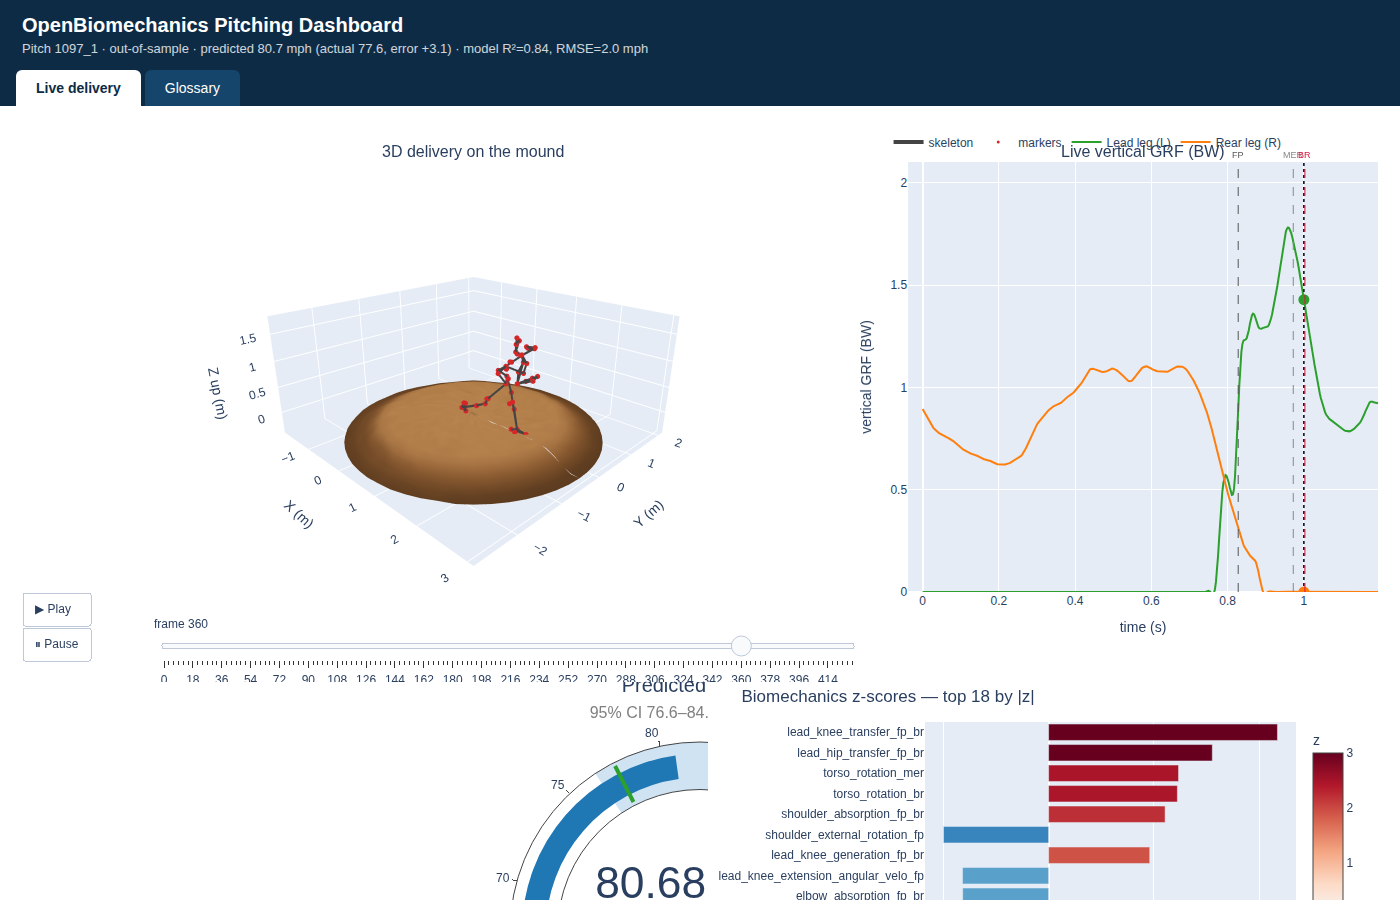
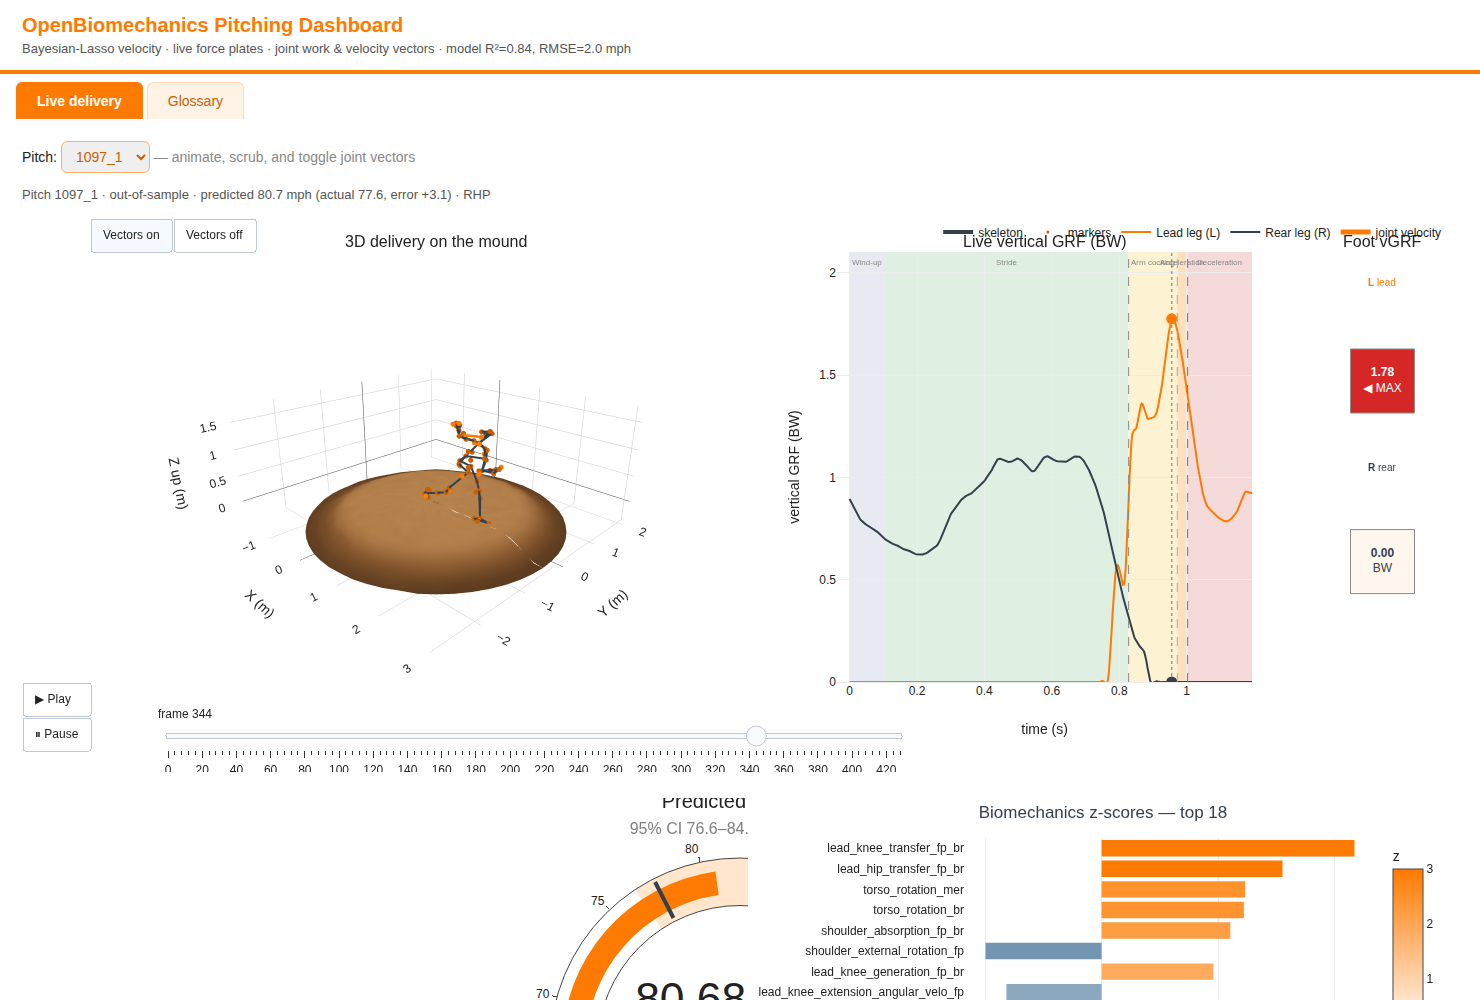
Add shaded delivery phases and color-changing L/R foot squares
- force_plate.py: delivery_phases() splits the delivery into wind-up, stride,
  arm cocking, acceleration, and deceleration spans from the event times
- GRF plots (matplotlib + HTML) now shade those phases behind the traces
- Replace the L/R bar gauge with two foot-vGRF squares that display each foot's
  value every frame and flash red ("MAX") at that foot's peak force
- HTML: foot squares added as a third subplot, animated per frame; phase labels
- README updated for phases, foot squares, theme, joint work, vectors, picker

Claude-Session: https://claude.ai/code/session_016ySqdfgHCsYqkwYTK8nUZG

diff --git a/dashboard.py b/dashboard.py
@@ -120,6 +120,24 @@ def _load_force(dataset, session_pitch, frame_times):
 
 
 _LEAD_C, _REAR_C = theme.ORANGE, theme.SLATE
+_HIGHLIGHT = "#d62728"  # colour a foot square flashes to at its peak force
+
+
+def _square_cmap():
+    from matplotlib.colors import LinearSegmentedColormap
+    return LinearSegmentedColormap.from_list(
+        "foot", [theme.PANEL, theme.ORANGE_LIGHT, theme.ORANGE])
+
+
+def _set_square(sq, txt, val, peak, unit):
+    """Colour a foot square by its current force; flash red at the max."""
+    frac = float(np.clip(val / peak, 0, 1)) if peak > 0 else 0.0
+    at_max = peak > 0 and val >= 0.99 * peak
+    sq.set_facecolor(_HIGHLIGHT if at_max else _square_cmap()(frac))
+    sq.set_edgecolor(_HIGHLIGHT if at_max else "0.5")
+    sq.set_linewidth(2.6 if at_max else 1.2)
+    txt.set_text(f"{val:.2f}\n{'◀ MAX' if at_max else unit}")
+    txt.set_color("white" if (frac > 0.6 or at_max) else theme.TEXT)
 
 
 def _draw_force_panel(ax_force, ax_bars, frame_times, fp, lead_leg, rear_leg):
@@ -142,6 +160,9 @@ def _draw_force_panel(ax_force, ax_bars, frame_times, fp, lead_leg, rear_leg):
     rear = fp["rear_vertical" + suffix]
     t = frame_times
 
+    import force_plate as _fp
+    from matplotlib.patches import Rectangle
+
     ax_force.plot(t, lead, color=_LEAD_C, lw=1.6, label=f"Lead leg ({lead_leg})")
     ax_force.plot(t, rear, color=_REAR_C, lw=1.6, label=f"Rear leg ({rear_leg})")
     ymax = float(np.nanmax([np.nanmax(lead), np.nanmax(rear), 1.0])) * 1.18
@@ -152,18 +173,23 @@ def _draw_force_panel(ax_force, ax_bars, frame_times, fp, lead_leg, rear_leg):
     ax_force.set_title("Live ground reaction force", fontweight="bold", fontsize=10)
     ax_force.tick_params(labelsize=7)
 
-    ev_style = {"fp": ("FP", "0.35"), "mer": ("MER", "0.55"),
-                "br": ("BR", "crimson")}
-    for key, (lab, c) in ev_style.items():
+    # Shaded delivery phases behind the traces.
+    ev_times = {k: float(t[fr]) for k, fr in fp["event_frames"].items()
+                if fr < len(t)}
+    for ph in _fp.delivery_phases(ev_times, float(t[-1])):
+        ax_force.axvspan(ph["t0"], ph["t1"], color=ph["color"], alpha=0.85,
+                         zorder=0, lw=0)
+        ax_force.text((ph["t0"] + ph["t1"]) / 2, ymax * 0.97, ph["label"],
+                      ha="center", va="top", fontsize=5.5, color="0.4", zorder=1)
+    for key in ("fp", "mer", "br"):
         fr = fp["event_frames"].get(key)
         if fr is not None and fr < len(t):
-            ax_force.axvline(t[fr], color=c, ls="--", lw=1.0, alpha=0.7)
-            ax_force.text(t[fr], ymax * 0.99, lab, rotation=90, va="top",
-                          ha="right", fontsize=6, color=c)
-    ax_force.legend(loc="upper left", fontsize=7, framealpha=0.9)
+            ax_force.axvline(t[fr], color="0.5", ls="--", lw=0.8, alpha=0.6,
+                             zorder=1)
+    ax_force.legend(loc="lower left", fontsize=7, framealpha=0.9)
 
     # Animated trace artists
-    cursor = ax_force.axvline(t[0], color="k", lw=1.2)
+    cursor = ax_force.axvline(t[0], color="k", lw=1.2, zorder=4)
     lead_dot, = ax_force.plot([t[0]], [lead[0]], "o", color=_LEAD_C, ms=7,
                               zorder=5)
     rear_dot, = ax_force.plot([t[0]], [rear[0]], "o", color=_REAR_C, ms=7,
@@ -174,24 +200,34 @@ def _draw_force_panel(ax_force, ax_bars, frame_times, fp, lead_leg, rear_leg):
         bbox=dict(boxstyle="round", fc="white", ec="0.7", alpha=0.85),
     )
 
-    # L/R bar gauge
-    ax_bars.set_xlim(-0.6, 1.6)
-    ax_bars.set_ylim(0, ymax)
-    ax_bars.set_xticks([0, 1])
-    ax_bars.set_xticklabels([f"{lead_leg}\nlead", f"{rear_leg}\nrear"], fontsize=8)
-    ax_bars.set_yticks([])
-    ax_bars.set_title(f"vGRF\n({unit})", fontsize=8)
-    bar_lead = ax_bars.bar(0, 0.0, width=0.7, color=_LEAD_C)[0]
-    bar_rear = ax_bars.bar(1, 0.0, width=0.7, color=_REAR_C)[0]
-    bar_txt_l = ax_bars.text(0, 0, "", ha="center", va="bottom", fontsize=7)
-    bar_txt_r = ax_bars.text(1, 0, "", ha="center", va="bottom", fontsize=7)
+    # Two foot squares (lead/rear) that show the live value and flash at the max.
+    ax_bars.set_xlim(0, 1)
+    ax_bars.set_ylim(0, 1)
+    ax_bars.axis("off")
+    ax_bars.set_title(f"Foot vGRF\n({unit})", fontsize=8)
+    sq_lead = Rectangle((0.15, 0.55), 0.7, 0.34, facecolor=theme.PANEL,
+                        edgecolor="0.5", lw=1.2)
+    sq_rear = Rectangle((0.15, 0.09), 0.7, 0.34, facecolor=theme.PANEL,
+                        edgecolor="0.5", lw=1.2)
+    ax_bars.add_patch(sq_lead)
+    ax_bars.add_patch(sq_rear)
+    ax_bars.text(0.5, 0.93, f"{lead_leg} lead", ha="center", va="center",
+                 fontsize=7, color=_LEAD_C, fontweight="bold")
+    ax_bars.text(0.5, 0.47, f"{rear_leg} rear", ha="center", va="center",
+                 fontsize=7, color=_REAR_C, fontweight="bold")
+    val_lead = ax_bars.text(0.5, 0.72, "", ha="center", va="center",
+                            fontsize=10, fontweight="bold")
+    val_rear = ax_bars.text(0.5, 0.26, "", ha="center", va="center",
+                            fontsize=10, fontweight="bold")
 
     return {
         "lead": lead, "rear": rear, "t": t, "unit": unit,
         "lead_leg": lead_leg, "rear_leg": rear_leg,
         "cursor": cursor, "lead_dot": lead_dot, "rear_dot": rear_dot,
-        "live_txt": live_txt, "bar_lead": bar_lead, "bar_rear": bar_rear,
-        "bar_txt_l": bar_txt_l, "bar_txt_r": bar_txt_r,
+        "live_txt": live_txt,
+        "sq_lead": sq_lead, "sq_rear": sq_rear,
+        "val_lead": val_lead, "val_rear": val_rear,
+        "peak_lead": float(np.nanmax(lead)), "peak_rear": float(np.nanmax(rear)),
     }
 
 
@@ -208,14 +244,10 @@ def _update_force_panel(fa, frame_idx):
         f"{fa['lead_leg']} lead: {lv:5.2f} {fa['unit']}\n"
         f"{fa['rear_leg']} rear: {rv:5.2f} {fa['unit']}"
     )
-    fa["bar_lead"].set_height(lv)
-    fa["bar_rear"].set_height(rv)
-    fa["bar_txt_l"].set_position((0, lv))
-    fa["bar_txt_l"].set_text(f"{lv:.1f}")
-    fa["bar_txt_r"].set_position((1, rv))
-    fa["bar_txt_r"].set_text(f"{rv:.1f}")
+    _set_square(fa["sq_lead"], fa["val_lead"], lv, fa["peak_lead"], fa["unit"])
+    _set_square(fa["sq_rear"], fa["val_rear"], rv, fa["peak_rear"], fa["unit"])
     return [fa["cursor"], fa["lead_dot"], fa["rear_dot"], fa["live_txt"],
-            fa["bar_lead"], fa["bar_rear"], fa["bar_txt_l"], fa["bar_txt_r"]]
+            fa["sq_lead"], fa["sq_rear"], fa["val_lead"], fa["val_rear"]]
 
 
 def build_dashboard(

diff --git a/dashboard_html.py b/dashboard_html.py
@@ -33,6 +33,24 @@ from velocity_model import train_velocity_model
 _LEAD_C, _REAR_C = theme.SERIES_A, theme.SERIES_B
 _DIRT_SCALE = [[0.0, "#5b3a1e"], [0.5, "#8a5a30"], [1.0, "#b9854f"]]
 _VEC_SCALE = 0.03   # metres drawn per (m/s) of joint velocity
+_FOOT_STOPS = [(0.0, (255, 247, 239)), (0.5, (255, 176, 102)), (1.0, (255, 122, 0))]
+_FOOT_MAX_RGB = (214, 39, 39)   # red flash when a foot is at its peak force
+
+
+def _foot_state(val, peak, unit):
+    """Square colour, text colour, and label for a foot's current force."""
+    frac = float(np.clip(val / peak, 0, 1)) if peak > 0 else 0.0
+    if peak > 0 and val >= 0.99 * peak:
+        return ("rgb(214,39,39)", "white", f"<b>{val:.2f}</b><br>◀ MAX")
+    for (f0, c0), (f1, c1) in zip(_FOOT_STOPS, _FOOT_STOPS[1:]):
+        if frac <= f1:
+            a = (frac - f0) / (f1 - f0) if f1 > f0 else 0
+            rgb = tuple(int(c0[k] + a * (c1[k] - c0[k])) for k in range(3))
+            break
+    else:
+        rgb = _FOOT_STOPS[-1][1]
+    tcol = "white" if frac > 0.5 else theme.SLATE
+    return (f"rgb{rgb}", tcol, f"<b>{val:.2f}</b><br>{unit}")
 
 
 def _seg_coords(coords, pairs):
@@ -83,9 +101,10 @@ def build_pose_force_figure(markers, fp, vecs, frame_times, lead_leg, rear_leg,
         ymax = 1.0
 
     fig = make_subplots(
-        rows=1, cols=2, column_widths=[0.62, 0.38],
-        specs=[[{"type": "scene"}, {"type": "xy"}]],
-        subplot_titles=("3D delivery on the mound", f"Live vertical GRF ({unit})"),
+        rows=1, cols=3, column_widths=[0.55, 0.33, 0.12],
+        specs=[[{"type": "scene"}, {"type": "xy"}, {"type": "xy"}]],
+        subplot_titles=("3D delivery on the mound", f"Live vertical GRF ({unit})",
+                        "Foot vGRF"),
         horizontal_spacing=0.04,
     )
 
@@ -132,23 +151,47 @@ def build_pose_force_figure(markers, fp, vecs, frame_times, lead_leg, rear_leg,
     fig.add_trace(go.Scatter3d(x=tx, y=ty, z=tz, mode="markers",
                                marker=dict(size=3, color=theme.ORANGE),
                                showlegend=False, hoverinfo="skip"), row=1, col=1)
+    # 10,11: foot-vGRF squares (lead on top, rear below) in the third subplot
+    lc, ltc, ltxt = _foot_state(lead[f0], float(np.nanmax(lead)), unit)
+    rc, rtc, rtxt = _foot_state(rear[f0], float(np.nanmax(rear)), unit)
+    fig.add_trace(go.Scatter(x=[0.5], y=[0.70], mode="markers+text",
+                             marker=dict(symbol="square", size=64, color=lc,
+                                         line=dict(color="#888", width=1)),
+                             text=[ltxt], textfont=dict(color=ltc, size=12),
+                             textposition="middle center", showlegend=False,
+                             hoverinfo="skip"), row=1, col=3)
+    fig.add_trace(go.Scatter(x=[0.5], y=[0.28], mode="markers+text",
+                             marker=dict(symbol="square", size=64, color=rc,
+                                         line=dict(color="#888", width=1)),
+                             text=[rtxt], textfont=dict(color=rtc, size=12),
+                             textposition="middle center", showlegend=False,
+                             hoverinfo="skip"), row=1, col=3)
 
-    # event lines on the force subplot
+    # event lines + shaded delivery phases on the force subplot
     xa = fig.data[3].xaxis or "x"
     ya = fig.data[3].yaxis or "y"
     if fp is not None:
-        for key, color in [("fp", "#888"), ("mer", "#bbb"), ("br", theme.ORANGE_DARK)]:
+        import force_plate as _fp
+        ev_times = {k: float(frame_times[fr]) for k, fr in fp["event_frames"].items()
+                    if fr < len(frame_times)}
+        for ph in _fp.delivery_phases(ev_times, float(frame_times[-1])):
+            fig.add_shape(type="rect", x0=ph["t0"], x1=ph["t1"], y0=0, y1=ymax,
+                          xref=xa, yref=ya, line=dict(width=0),
+                          fillcolor=ph["color"], opacity=0.85, layer="below")
+            fig.add_annotation(x=(ph["t0"] + ph["t1"]) / 2, y=ymax * 0.99,
+                               xref=xa, yref=ya, text=ph["label"], showarrow=False,
+                               yanchor="top", textangle=0,
+                               font=dict(size=8, color="#888"))
+        for key, color in [("fp", "#888"), ("mer", "#aaa"), ("br", theme.ORANGE_DARK)]:
             fr = fp["event_frames"].get(key)
             if fr is not None and fr < len(frame_times):
                 tx0 = float(frame_times[fr])
                 fig.add_shape(type="line", x0=tx0, x1=tx0, y0=0, y1=ymax,
                               xref=xa, yref=ya,
                               line=dict(color=color, dash="dash", width=1))
-                fig.add_annotation(x=tx0, y=ymax, xref=xa, yref=ya, text=key.upper(),
-                                   showarrow=False, font=dict(size=9, color=color),
-                                   yanchor="bottom")
 
     # frames
+    lead_peak, rear_peak = float(np.nanmax(lead)), float(np.nanmax(rear))
     anim_frames = []
     for f in frames_idx:
         coords = markers.points[f]
@@ -156,6 +199,8 @@ def build_pose_force_figure(markers, fp, vecs, frame_times, lead_leg, rear_leg,
         fin = np.isfinite(coords).all(axis=-1)
         (vx, vy, vz), (tx, ty, tz) = _vector_segments(vecs, f)
         tt = float(frame_times[f])
+        lc, ltc, ltxt = _foot_state(lead[f], lead_peak, unit)
+        rc, rtc, rtxt = _foot_state(rear[f], rear_peak, unit)
         anim_frames.append(go.Frame(name=str(f), data=[
             go.Scatter3d(x=sx, y=sy, z=sz),
             go.Scatter3d(x=coords[fin, 0], y=coords[fin, 1], z=coords[fin, 2]),
@@ -164,8 +209,26 @@ def build_pose_force_figure(markers, fp, vecs, frame_times, lead_leg, rear_leg,
             go.Scatter(x=[tt], y=[float(rear[f])]),
             go.Scatter3d(x=vx, y=vy, z=vz),
             go.Scatter3d(x=tx, y=ty, z=tz),
-        ], traces=[1, 2, 5, 6, 7, 8, 9]))
+            go.Scatter(x=[0.5], y=[0.70],
+                       marker=dict(symbol="square", size=64, color=lc,
+                                   line=dict(color="#888", width=1)),
+                       text=[ltxt], textfont=dict(color=ltc, size=12)),
+            go.Scatter(x=[0.5], y=[0.28],
+                       marker=dict(symbol="square", size=64, color=rc,
+                                   line=dict(color="#888", width=1)),
+                       text=[rtxt], textfont=dict(color=rtc, size=12)),
+        ], traces=[1, 2, 5, 6, 7, 8, 9, 10, 11]))
     fig.frames = anim_frames
+
+    # Hide the foot-square subplot axes and label the two squares.
+    fig.update_xaxes(visible=False, range=[0, 1], row=1, col=3)
+    fig.update_yaxes(visible=False, range=[0, 1], row=1, col=3)
+    xb = fig.data[10].xaxis or "x3"
+    yb = fig.data[10].yaxis or "y3"
+    fig.add_annotation(x=0.5, y=0.93, xref=xb, yref=yb, showarrow=False,
+                       text=f"<b>{lead_leg}</b> lead", font=dict(size=10, color=_LEAD_C))
+    fig.add_annotation(x=0.5, y=0.50, xref=xb, yref=yb, showarrow=False,
+                       text=f"<b>{rear_leg}</b> rear", font=dict(size=10, color=_REAR_C))
 
     fig.update_scenes(aspectmode="data", xaxis_title="X (m)", yaxis_title="Y (m)",
                       zaxis_title="Z up (m)",

diff --git a/force_plate.py b/force_plate.py
@@ -161,3 +161,34 @@ def load_force_plate(
 
 def event_label(key: str) -> str:
     return _EVENT_LABELS.get(key, key)
+
+
+# Light, distinct phase tints (readable behind the GRF traces on a white theme).
+_PHASE_SEQ = [
+    ("Wind-up", "pkh", "#e3e8ee"),
+    ("Stride", "fp", "#d9ecdc"),
+    ("Arm cocking", "mer", "#fdf0c9"),
+    ("Acceleration", "br", "#ffd9b3"),
+]
+_PHASE_FINAL = ("Deceleration", "#f3d4d4")
+
+
+def delivery_phases(events: dict, t_end: float) -> list[dict]:
+    """Return the distinct delivery phases as ``{label, t0, t1, color}`` spans.
+
+    Phases are delimited by the standard events: Wind-up (start→peak knee
+    height), Stride (→foot plant), Arm cocking (→max external rotation),
+    Acceleration (→ball release), and Deceleration/follow-through (→end).
+    Phases whose bounding event is missing are skipped.
+    """
+    phases, prev = [], 0.0
+    for label, ev, color in _PHASE_SEQ:
+        t = events.get(ev)
+        if t is None or not np.isfinite(t) or t <= prev:
+            continue
+        phases.append({"label": label, "t0": prev, "t1": float(t), "color": color})
+        prev = float(t)
+    if t_end > prev:
+        label, color = _PHASE_FINAL
+        phases.append({"label": label, "t0": prev, "t1": float(t_end), "color": color})
+    return phases

diff --git a/README.md b/README.md
@@ -176,17 +176,24 @@ for row in trained.model.coef_summary(trained.dataset.feature_names)[:10]:
 > they summarise. Pitchers are a mix of left- and right-handed; the model uses
 > biomechanics magnitudes and is not mirrored by handedness.
 
-## Live force plates + interactive dashboard with a glossary tab
+## Interactive dashboard (white/orange) with a glossary tab
 
-`dashboard_html.py` builds a **self-contained interactive HTML dashboard** with
-two tabs:
+`dashboard_html.py` builds a **self-contained interactive HTML dashboard**,
+styled with a **white & orange** theme (`theme.py`), with two tabs:
 
-* **Live delivery** — a Plotly animation of the 3D pose on the dirt mound with a
-  Play button and a frame slider. Scrubbing the delivery drives a synchronized
-  **live ground-reaction-force** plot of the lead vs. rear leg (labelled by the
-  pitcher's actual **L/R** legs via handedness), with a moving time cursor and
-  event markers (foot plant, MER, ball release). The velocity gauge and
-  colour-coded z-scores sit alongside.
+* **Live delivery** — a **pitch picker** selects the delivery. A Plotly animation
+  shows the 3D pose on the dirt mound with a Play button, a frame slider, and a
+  **toggle for joint velocity vectors** on every joint (orange arrows from the
+  joint centres, computed from the landmark data). Scrubbing the delivery drives:
+  * a synchronized **live ground-reaction-force** plot of the lead vs. rear leg
+    (labelled by the pitcher's actual **L/R** legs via handedness), with the
+    delivery **phases shaded** (wind-up, stride, arm cocking, acceleration,
+    deceleration) and a moving time cursor;
+  * two **foot-vGRF squares** (L/R) that show each foot's force every frame and
+    **flash red ("◀ MAX") at that foot's peak**;
+  * the Bayesian-Lasso **velocity gauge**, the **biomechanics z-scores**, the
+    **joint work accumulated** during the delivery, and the **z-scores of joint
+    work** (energy generated) for the selected pitch.
 * **Glossary** — a searchable table with **full explanations of every
   biomechanics variable**, plus the delivery events and coordinate/force
   conventions, sourced from the OBP documentation.
@@ -195,37 +202,48 @@ two tabs:
 ![Glossary tab](examples/dashboard_html_glossary.png)
 
 ```bash
-# Build the interactive dashboard (Plotly from CDN; needs internet to view)
-python dashboard_html.py --pitch 1097_1 --out dashboard.html
+# Build with the default pitch picker (Plotly from CDN; needs internet to view)
+python dashboard_html.py --out dashboard.html
+
+# Choose the pitches in the picker
+python dashboard_html.py --pitches 1097_1,1031_2,1031_3 --out dashboard.html
 
 # Fully self-contained / offline (embeds Plotly.js, larger file)
-python dashboard_html.py --pitch 1097_1 --offline --out dashboard.html
+python dashboard_html.py --offline --out dashboard.html
 ```
 
-The animated **matplotlib** dashboard (`dashboard.py`) also gained a live
-force-plate panel: lead/rear vertical GRF traces with a moving cursor and an
-L/R bar gauge that updates frame-by-frame next to the pose animation.
+The animated **matplotlib** dashboard (`dashboard.py`) carries the same white/
+orange theme and the same live force panel: phase-shaded lead/rear GRF traces
+with a moving cursor plus the two color-changing L/R foot squares next to the
+pose animation.
 
-### Force plates and the glossary as modules
+### Joint work, force plates, and the glossary as modules
 
 ```python
-import force_plate, glossary
+import force_plate, glossary, joint_kinetics
 
-# Per-pitch ground reaction forces, aligned to the C3D marker frames
+# Per-pitch ground reaction forces + delivery phases, aligned to the C3D frames
 trace = force_plate.load_force_plate("1097_1", bodyweight_n=76 * 9.81)
 aligned = trace.align_to_frames(frame_times)   # rear/lead vertical & magnitude per frame
-aligned["event_frames"]                         # {'fp': 298, 'br': 361, ...}
+force_plate.delivery_phases(trace.events, t_end=1.2)   # wind-up → deceleration spans
+
+# Joint work (net energy generated, J), z-scores, and joint velocity vectors
+jw = joint_kinetics.load_joint_work("1097_1")          # cumulative work per joint
+jw.work_at_release()                                    # {'shoulder': 980, 'elbow': -742, ...}
+joint_kinetics.work_zscores("1097_1")                   # z-scores vs the dataset
+joint_kinetics.load_joint_vectors("1097_1", frame_times)  # joint-centre velocity vectors
 
 # Glossary of every variable (definition, units, event, category)
 glossary.lookup("elbow_varus_moment").definition
-df = glossary.as_dataframe()                     # all 81 variables as a table
-open("GLOSSARY.md", "w").write(glossary.render_markdown())
+glossary.as_dataframe()                                 # all 81 variables as a table
 ```
 
-The force-plate series (`rear_force_*`, `lead_force_*`) come from the OBP
-`full_sig/force_plate.zip` (~1080 Hz) and share the C3D clock, so they align to
-the pose by simple time interpolation. A full text glossary is also rendered to
-[`GLOSSARY.md`](GLOSSARY.md).
+Force plates (`rear_force_*`, `lead_force_*`, ~1080 Hz) come from
+`full_sig/force_plate.zip`; joint work uses OBP's authoritative
+`<joint>_energy_generated` from `full_sig/energy_flow.zip`; joint-centre velocity
+vectors are finite-differenced from `full_sig/landmarks.zip`. All share the C3D
+clock, so they align to the pose by time interpolation. A full text glossary is
+also rendered to [`GLOSSARY.md`](GLOSSARY.md).
 
 ## Data & license
 